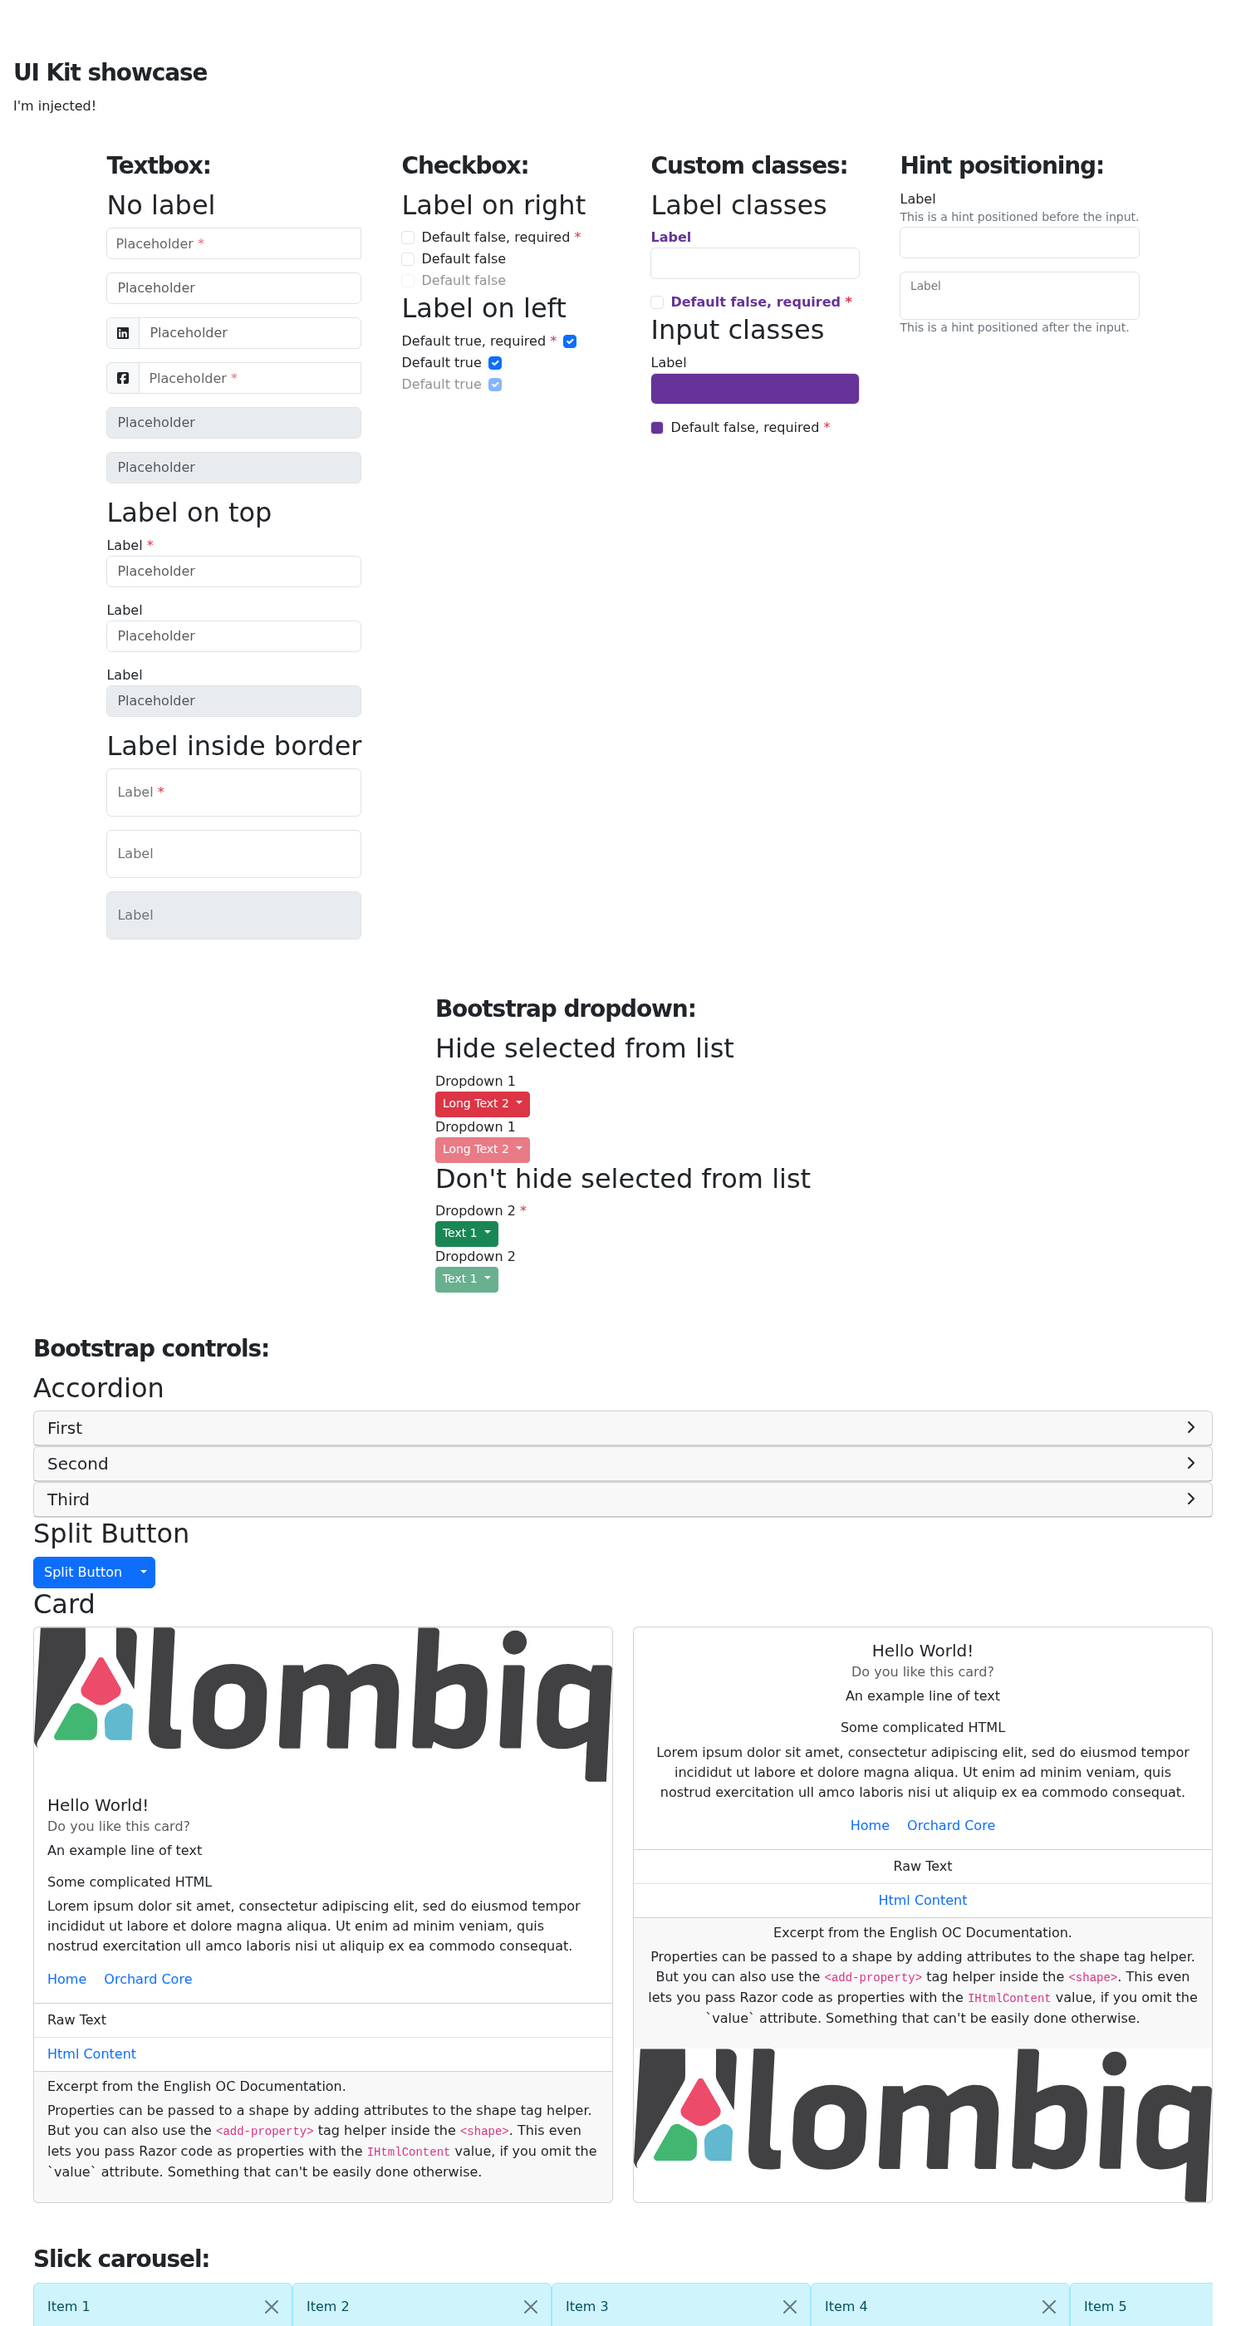
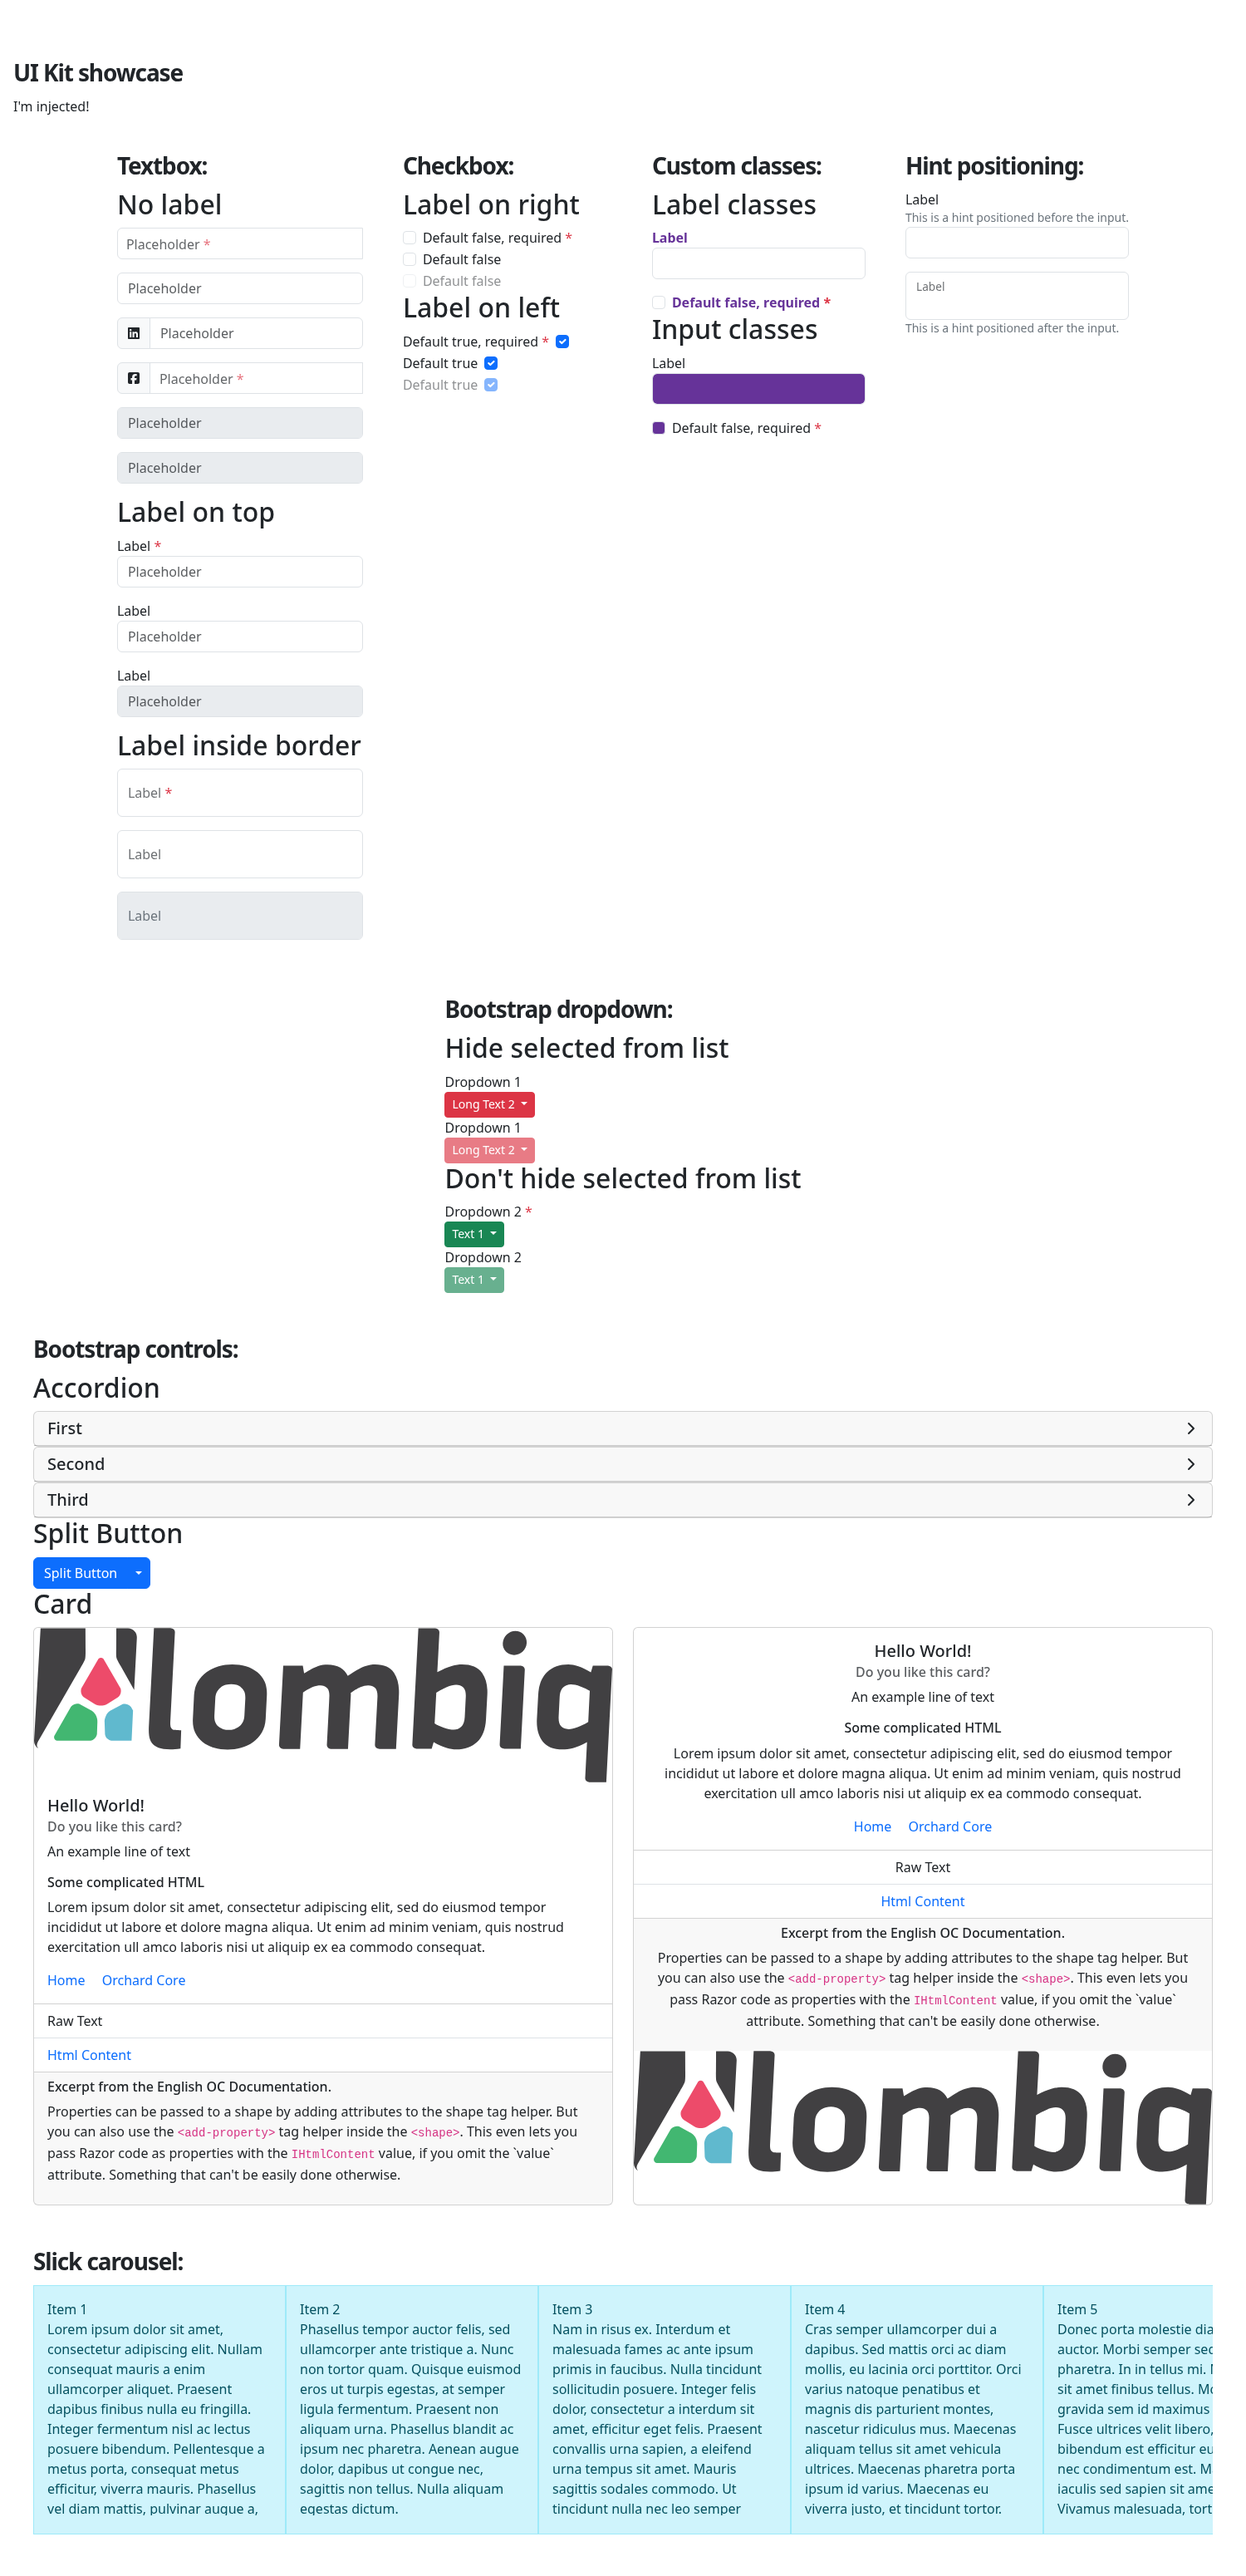
Update UI test visual verification.

diff --git a/Lombiq.UIKit.Tests.UI/Extensions/TestCaseUITestContextExtensions.cs b/Lombiq.UIKit.Tests.UI/Extensions/TestCaseUITestContextExtensions.cs
@@ -50,7 +50,7 @@ public static class TestCaseUITestContextExtensions
                 "document.querySelectorAll('.ta-navbar-top, #ta-left-sidebar').forEach((element) => element.remove());" +
                 "document.querySelector('.ta-content').style.margin = '0';" +
                 "document.body.style.width = '1500px';" +
-                "document.body.style.minHeight = '2800px';" +
+                "document.body.style.minHeight = '3100px';" +
                 "document.body.style.overflow = 'hidden';");
 
             // Add some delay to ensure that any admin theme animations have finished.
